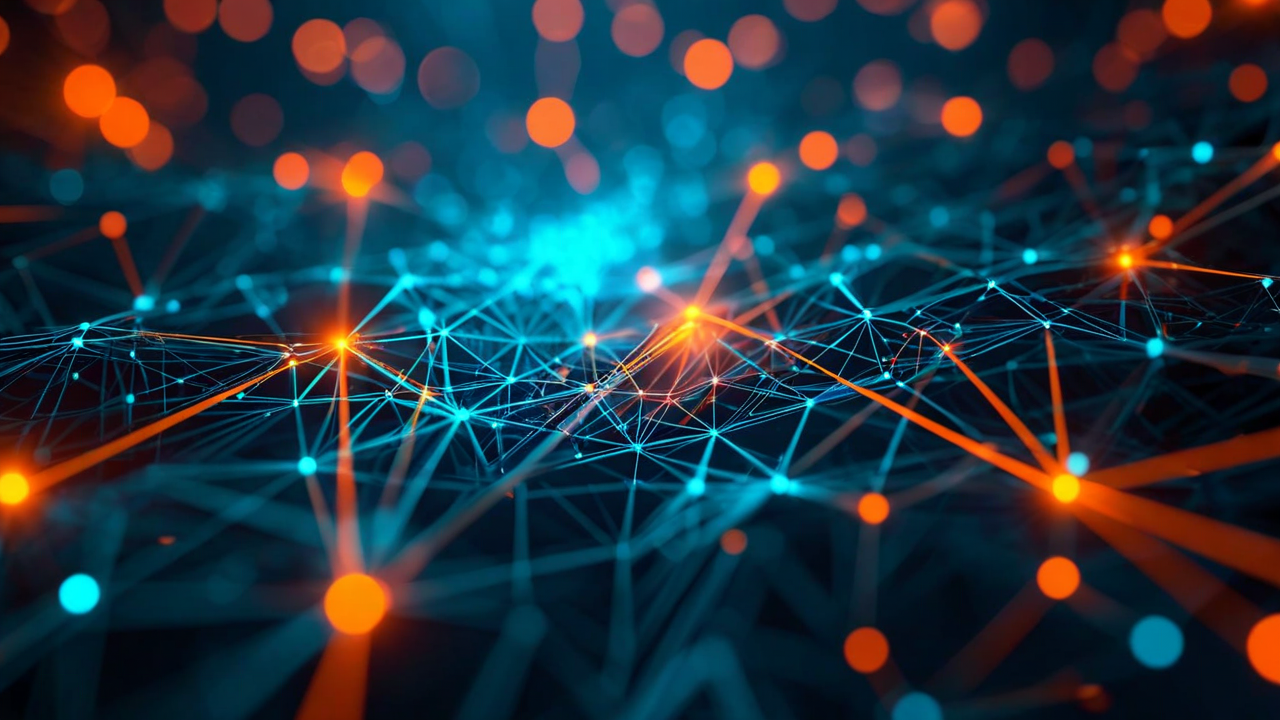
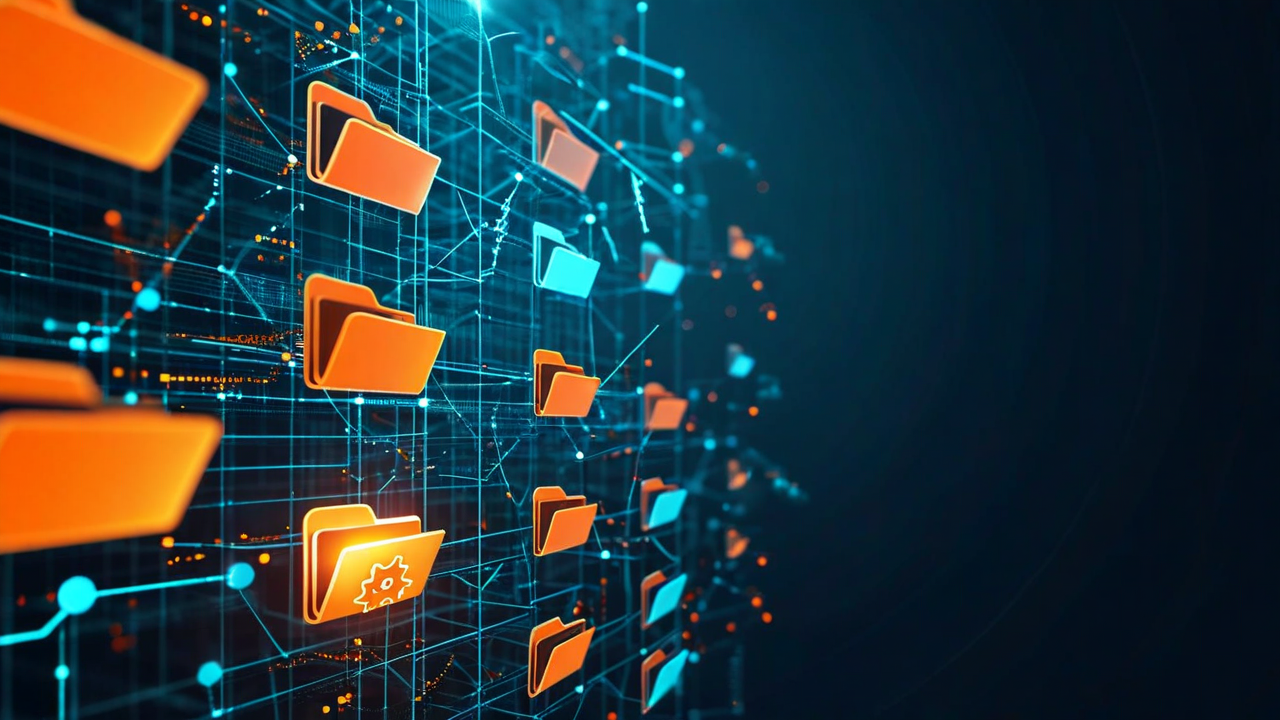
docs: add conflict resolution SVG and refresh hero image
- 08-conflict-resolution: decision flow diagram showing how copier
  update resolves pyproject.toml conflicts (version/license keep user's
  value, other fields take template improvements)
- regenerate hero image with project scaffolding motif (folder tree,
  gear icon, code brackets) instead of pure abstract art

diff --git a/docs/medium/copier-data-science-opinionated-evolution.en_US.md b/docs/medium/copier-data-science-opinionated-evolution.en_US.md
@@ -219,6 +219,8 @@ def resolve_conflict(match):
 
 Version bumps and custom licenses survive template updates. New dependency configurations and tool settings flow in from the template. This is the kind of detail that only matters when it breaks - and when it breaks, it really breaks.
 
+![Conflict Resolution During copier update](images/08-conflict-resolution.svg)
+
 ![Project Evolution](images/06-evolution-timeline.svg)
 
 ## Limitations
